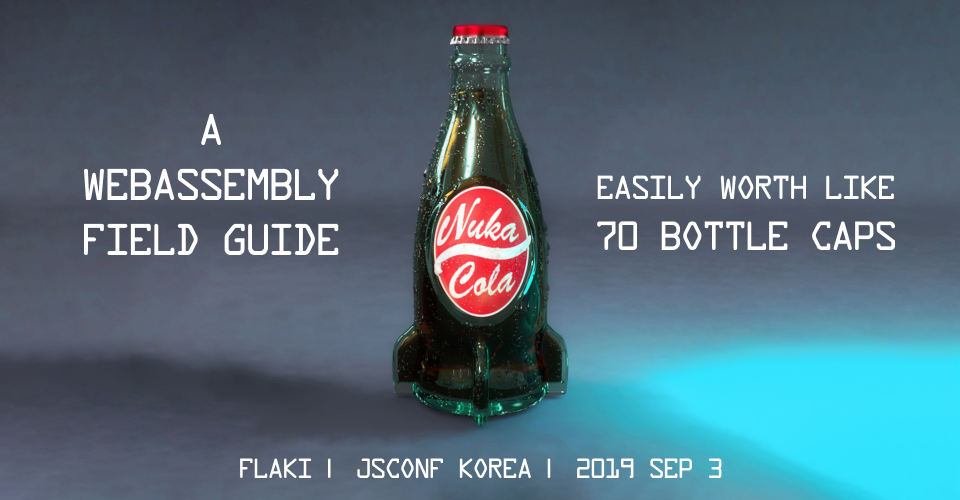
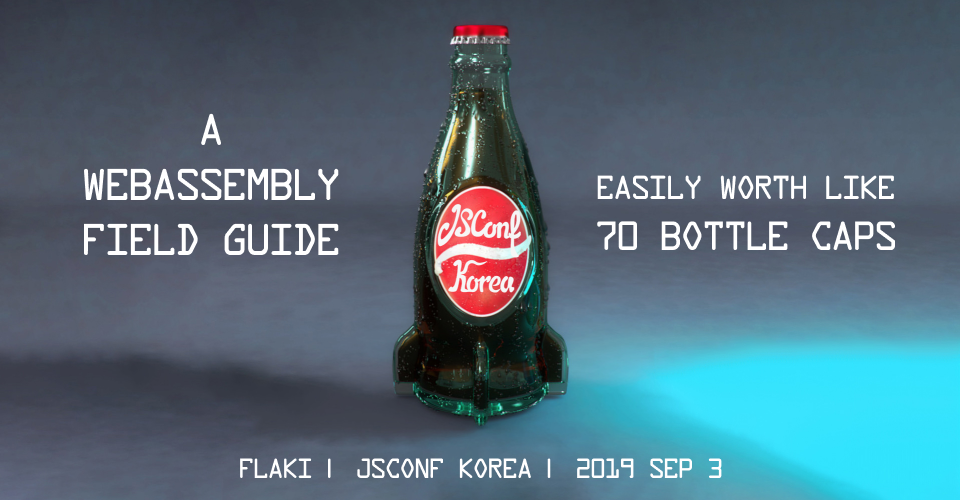
Correct JSConf Korea Nuka bottle

Changed region(s): [[0.4375, 0.39, 0.5625, 0.6]]

diff --git a/wasm/jsconfkorea/index.html b/wasm/jsconfkorea/index.html
@@ -29,7 +29,7 @@
 <body>
     <main>
         <section id=opening class=no-effect>
-            <img src="./assets/nuka-fullsize.jpg" alt="JSConf Korea branded Nuka Cola bottle" style="
+            <img src="./assets/nuka-cola-jsconfkorea-fullsize.jpg" alt="JSConf Korea branded Nuka Cola bottle" style="
                 width: 100%;
                 margin-bottom: -3rem;
             " />
